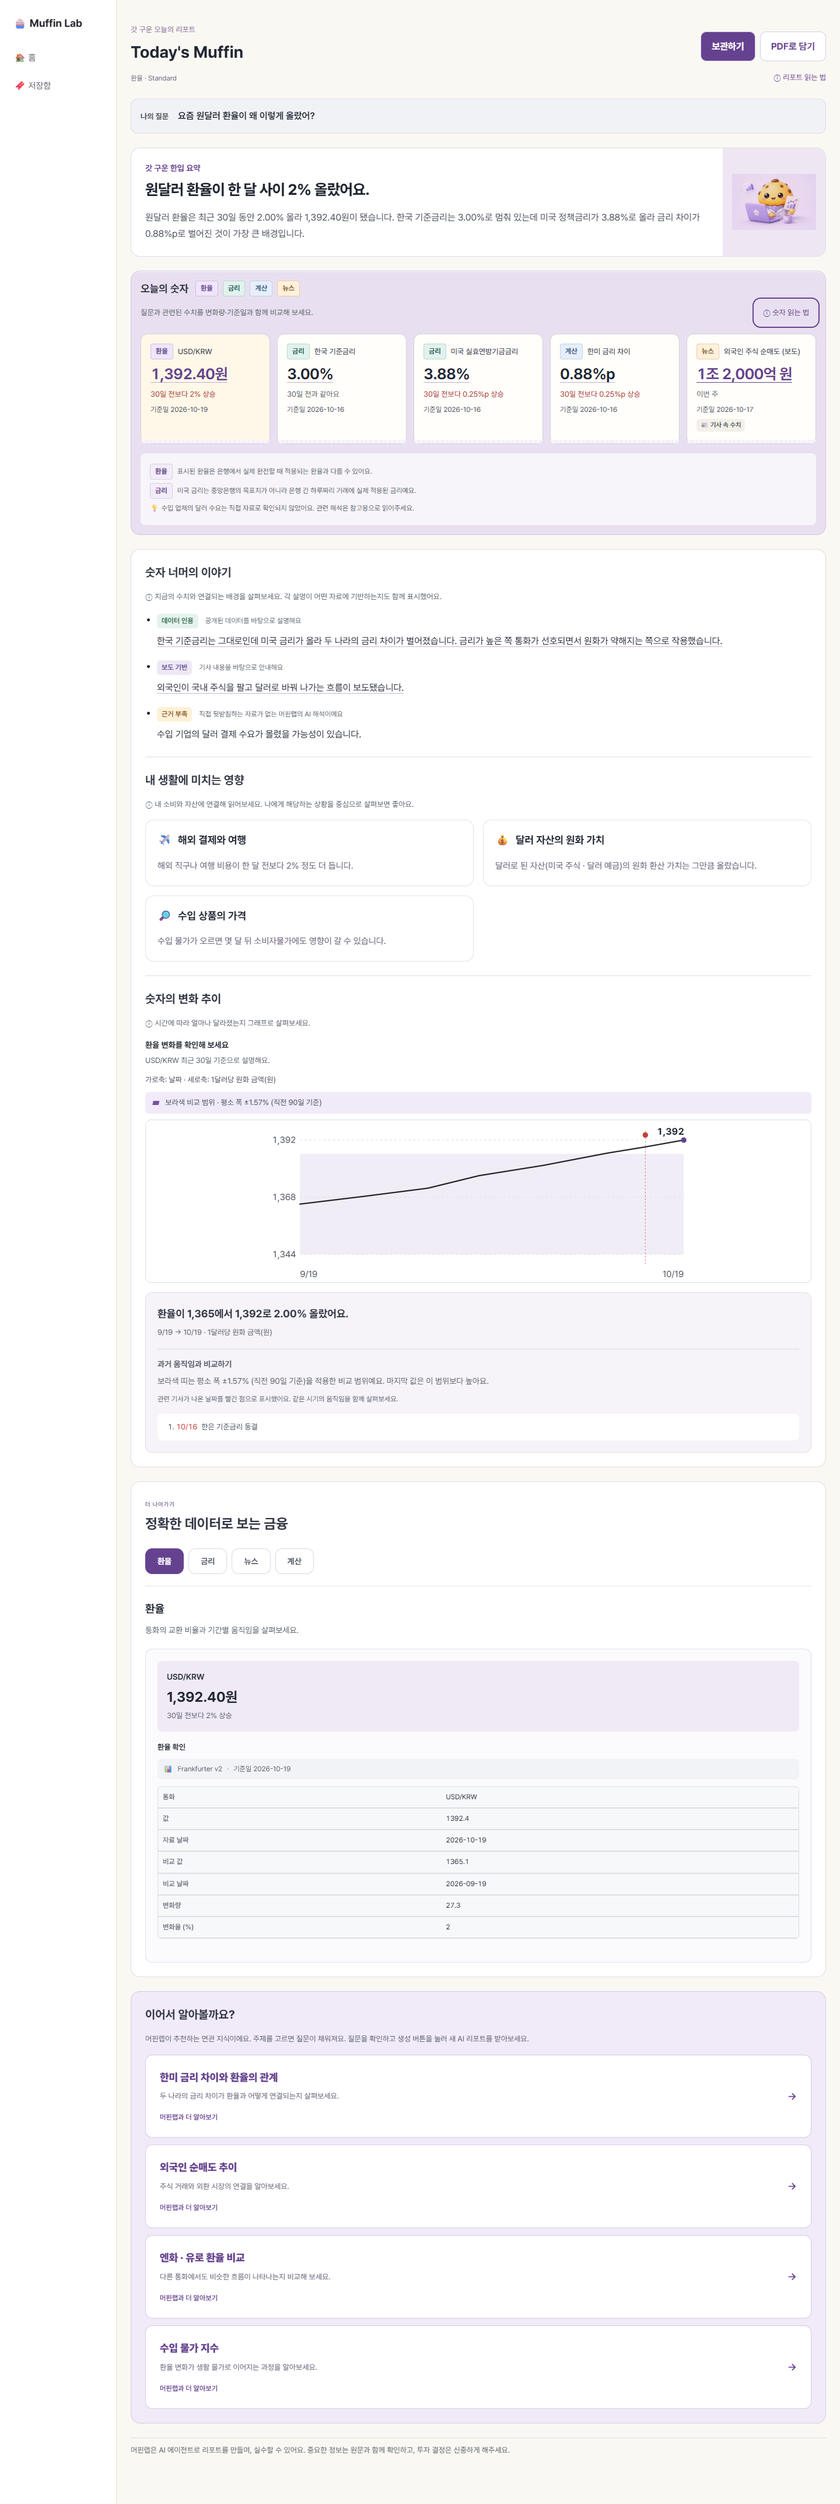
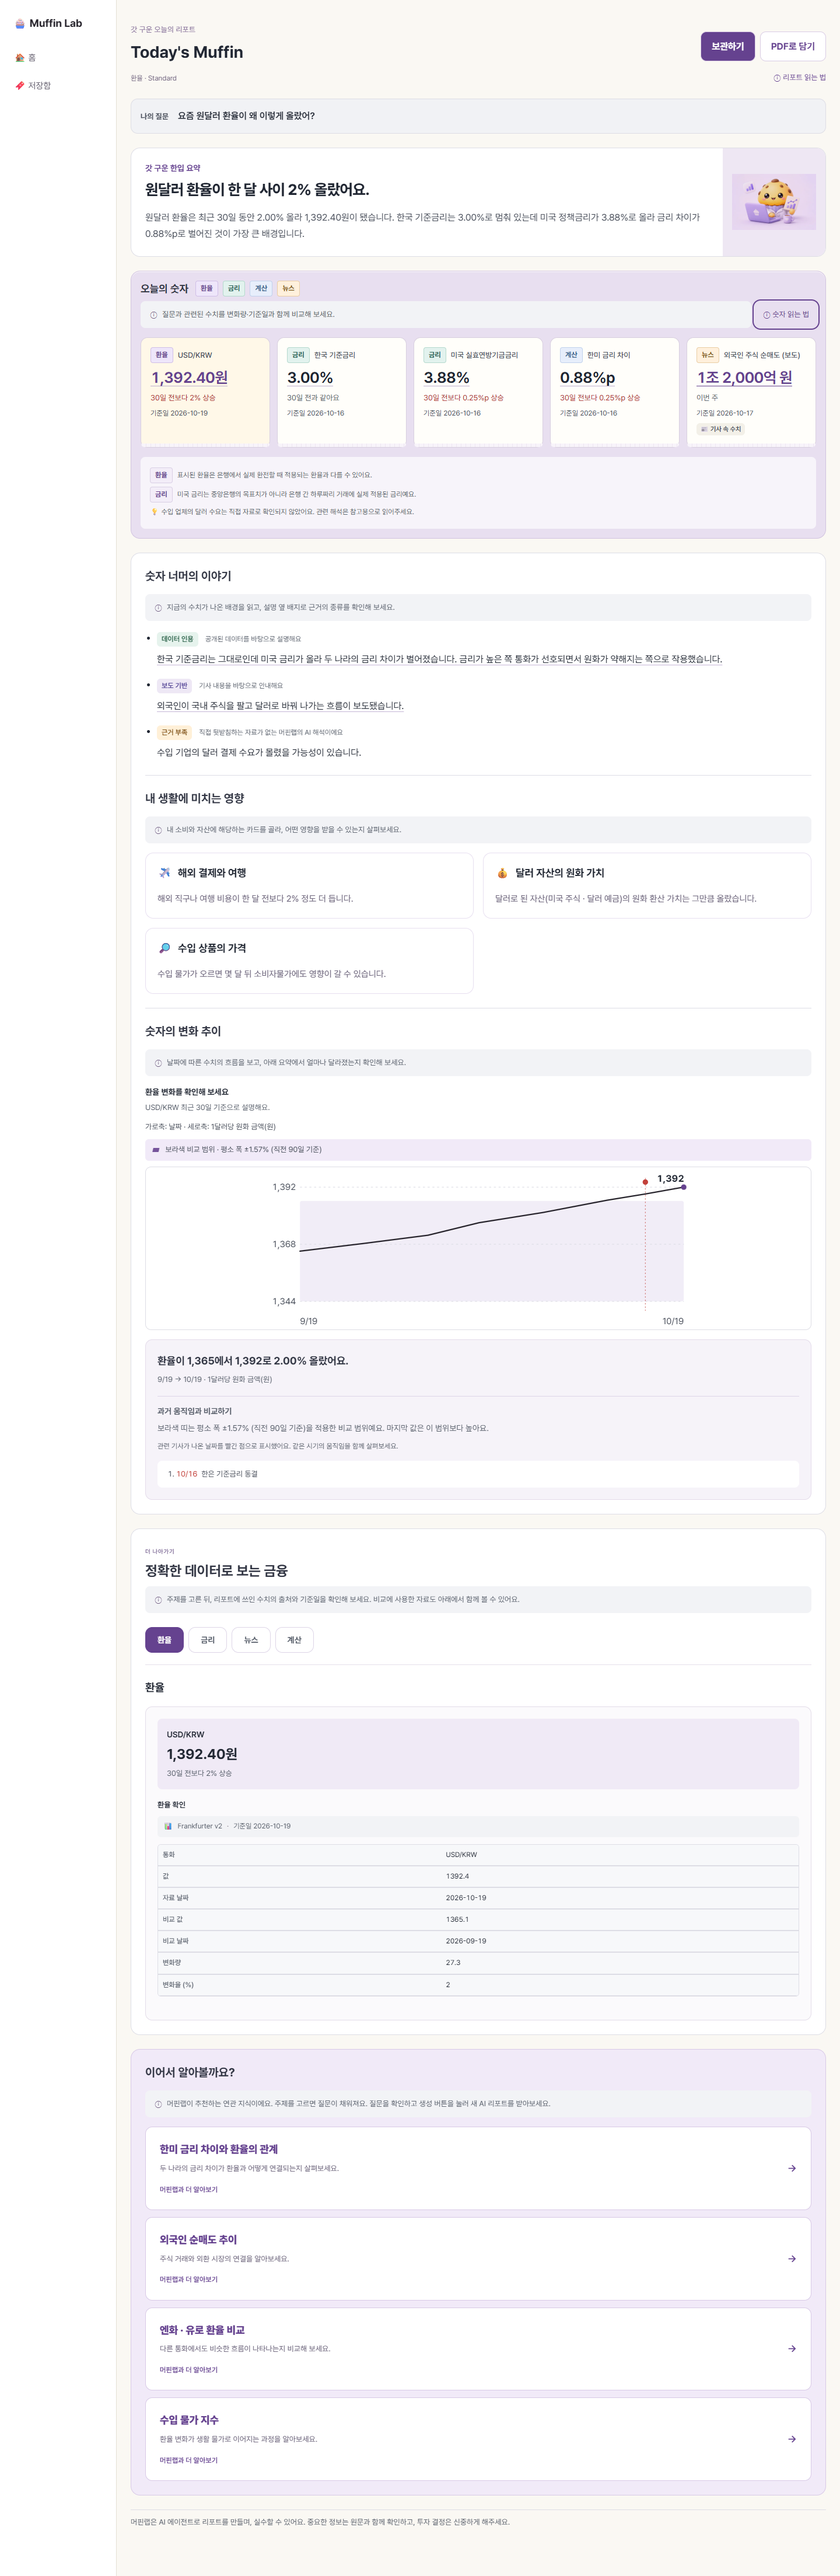
fix: 리포트 안내 박스와 중복 수치 표시 정리

diff --git a/app/components/ReportSources.tsx b/app/components/ReportSources.tsx
@@ -6,15 +6,6 @@ import type { Report } from "@/src/agent/schema";
 import { EvidenceRecord, SourceLink } from "./ReportEvidence";
 import { ReasonEvidenceTarget, useEvidenceSelection, useEvidenceTarget } from "./ReportEvidenceScope";
 
-const introductions: Record<string, string> = {
-  환율: "통화의 교환 비율과 기간별 움직임을 살펴보세요.",
-  금리: "국가별 금리 수준과 자료가 가리키는 날짜를 비교해 보세요.",
-  물가: "물가 지표의 변화와 집계 기간을 살펴보세요.",
-  ETF: "상품별 가격·지표와 자료 날짜를 살펴보세요.",
-  뉴스: "리포트에서 참고한 보도와 원문을 모았어요.",
-  계산: "어떤 값을 사용해 결과를 얻었는지 살펴보세요.",
-};
-
 export function ReportSources({ report }: { report: Report }) {
   const scope = useEvidenceSelection();
   const rootId = useEvidenceTarget("section-sources");
@@ -29,23 +20,24 @@ export function ReportSources({ report }: { report: Report }) {
   const active = scope?.selection && groups.includes(scope.selection) ? scope.selection : groups[0];
   return <section className="source-library" aria-label="정확한 데이터로 보는 금융" id={rootId ?? undefined} tabIndex={-1}>
     <div className="source-library-heading"><div><span className="source-eyebrow">더 나아가기</span><h2>정확한 데이터로 보는 금융</h2></div></div>
+    <p className="section-guide">주제를 고른 뒤, 리포트에 쓰인 수치의 출처와 기준일을 확인해 보세요. 비교에 사용한 자료도 아래에서 함께 볼 수 있어요.</p>
     <div className="source-chips" role="group" aria-label="자료 주제 선택">
       {groups.map(group => <button type="button" key={group} aria-pressed={active === group} onClick={() => scope?.select(group)}>{group}</button>)}
     </div>
     {groups.length === 0 && <p className="report-muted">연결된 자료가 없습니다.</p>}
     {groups.map(group => <div className="source-panel" key={group} data-source-group={group} hidden={active !== group}>
-      <div className="source-panel-heading"><h3>{group}</h3>{introductions[group] && <p>{introductions[group]}</p>}</div>
+      <div className="source-panel-heading"><h3>{group}</h3></div>
       {group === "계산" && report.notice && <p className="source-insight">{report.notice}</p>}
       {report.why.some(reason => reasonGroup(reason) === group) && <div className="source-reasons">
         {report.why.map((reason, index) => reasonGroup(reason) === group && <ReasonEvidenceTarget index={index} key={index}>
-          <h4>{reason.claim}</h4><p>{reason.evidence}</p>
+          <h4>{reason.claim}</h4>{reason.evidence && <p>{reason.evidence}</p>}
           
         </ReasonEvidenceTarget>)}
       </div>}
       {group === "참고 문서" ? <ul>{extraSources.map((source, index) => <li key={index}><SourceLink url={source.url} name={source.name} /> · 기준일 {source.asOf || "미제공"}</li>)}</ul> : <div className="source-data-grid">
         {report.evidence.filter(entry => evidenceCategory(entry) === group).map(entry => <div key={entry.id} className="source-data-item">
           {report.numbers.filter(number => number.ref === entry.id).map((number, index) => <div className="source-number" key={index}><span>{number.label}</span><strong>{number.value}</strong>{number.change && <small>{reportChange(number.change).text}</small>}</div>)}
-          <EvidenceRecord entry={entry} evidence={report.evidence} />
+          <EvidenceRecord entry={entry} evidence={report.evidence} displayedValue={report.numbers.find(number => number.ref === entry.id)?.value} />
         </div>)}
       </div>}
     </div>)}

diff --git a/app/components/ReportView.tsx b/app/components/ReportView.tsx
@@ -69,14 +69,14 @@ export function ReportView({ report, area, question, headline, impactTitles = []
             );
           })}
         </div>
-        <div className="metric-notes" aria-label="자료 범위">{report.caveats.map((note, i) => <p key={i}><span className="category-chip">{/환율/.test(note) ? "환율" : /금리/.test(note) ? "금리" : "참고"}</span>{note}</p>)}{report.dataGaps.map((note, i) => <p key={`gap-${i}`}>💡 {note} <span>관련 해석은 참고용으로 읽어주세요.</span></p>)}</div>
+        {(report.caveats.length > 0 || report.dataGaps.length > 0) && <div className="metric-notes" aria-label="자료 범위">{report.caveats.map((note, i) => <p key={i}><span className="category-chip">{/환율/.test(note) ? "환율" : /금리/.test(note) ? "금리" : "참고"}</span>{note}</p>)}{report.dataGaps.map((note, i) => <p key={`gap-${i}`}>💡 {note} <span>관련 해석은 참고용으로 읽어주세요.</span></p>)}</div>}
         {report.numbers.length === 0 && <p className="report-muted">표시할 숫자를 확보하지 못했습니다.</p>}
       </section>
 
       <div className={styles.columns}>
         <div className={styles.story}>
           <section>
-            <h2>숫자 너머의 이야기</h2><p className="section-guide">ⓘ 지금의 수치와 연결되는 배경을 살펴보세요. 각 설명이 어떤 자료에 기반하는지도 함께 표시했어요.</p>
+            <h2>숫자 너머의 이야기</h2><p className="section-guide">지금의 수치가 나온 배경을 읽고, 설명 옆 배지로 근거의 종류를 확인해 보세요.</p>
             {report.why.length === 0 ? (
               <p className="muted">이 질문의 원인을 설명할 데이터가 아직 없습니다.</p>
             ) : (
@@ -92,13 +92,13 @@ export function ReportView({ report, area, question, headline, impactTitles = []
           </section>
 
           <section>
-            <h2>내 생활에 미치는 영향</h2><p className="section-guide">ⓘ 내 소비와 자산에 연결해 읽어보세요. 나에게 해당하는 상황을 중심으로 살펴보면 좋아요.</p>
+            <h2>내 생활에 미치는 영향</h2><p className="section-guide">내 소비와 자산에 해당하는 카드를 골라, 어떤 영향을 받을 수 있는지 살펴보세요.</p>
             <div className="impact-grid">{report.impact.map((w, i) => <article className="impact-card" key={i}>{impactTitles[i] && <h3><span aria-hidden="true">{/여행|해외/.test(impactTitles[i]) ? "✈" : /자산|보유/.test(impactTitles[i]) ? "💰" : /상품|비교/.test(impactTitles[i]) ? "🔎" : /예금|적금/.test(impactTitles[i]) ? "🏦" : /물가|장보기/.test(impactTitles[i]) ? "🛒" : /뉴스/.test(impactTitles[i]) ? "📰" : "💡"}</span> {impactTitles[i]}</h3>}<p>{w}</p></article>)}</div>
           </section>
 
           {report.charts && report.charts.length > 0 && (
             <section>
-              <h2>숫자의 변화 추이</h2><p className="section-guide">ⓘ 시간에 따라 얼마나 달라졌는지 그래프로 살펴보세요.</p>
+              <h2>숫자의 변화 추이</h2><p className="section-guide">날짜에 따른 수치의 흐름을 보고, 아래 요약에서 얼마나 달라졌는지 확인해 보세요.</p>
               {report.charts.map((c, i) => (
                 <ReportChart key={i} chart={c} evidence={report.evidence} />
               ))}

diff --git a/app/components/ReportEvidence.tsx b/app/components/ReportEvidence.tsx
@@ -47,9 +47,9 @@ export function EvidenceReference({ evidenceId, evidence, label = "자료 출처
   );
 }
 
-export function EvidenceRecord({ entry, evidence }: { entry: Evidence; evidence: Evidence[] }) {
+export function EvidenceRecord({ entry, evidence, displayedValue }: { entry: Evidence; evidence: Evidence[]; displayedValue?: string }) {
   const id = useEvidenceTarget(entry.id);
-  return <div className="evidence-record" id={id ?? undefined} tabIndex={-1}><EvidenceContent entry={entry} evidence={evidence} /></div>;
+  return <div className="evidence-record" id={id ?? undefined} tabIndex={-1}><EvidenceContent entry={entry} evidence={evidence} displayedValue={displayedValue} /></div>;
 }
 
 /** 입력 자료는 이름으로 보여주며 내부 이동이나 재귀 펼침을 만들지 않습니다. */
@@ -65,7 +65,15 @@ const valueLabels: Record<string, string> = {
 };
 const operationLabels: Record<string, string> = { spread: "차이", diff: "차이", pct_change: "변화율", pp_diff: "%p 차이" };
 
-function EvidenceContent({ entry, evidence }: { entry: Evidence; evidence: Evidence[] }) {
+function EvidenceContent({ entry, evidence, displayedValue }: { entry: Evidence; evidence: Evidence[]; displayedValue?: string }) {
+  // A single raw value adds no context when its formatted equivalent is already above.
+  // Keep differing values, calculations and multi-field records visible.
+  const fields = Object.entries(entry.values);
+  const formatted = displayedValue?.replaceAll(",", "");
+  const duplicate = !entry.lineage && fields.length === 1 && ["value", "rate"].includes(fields[0][0])
+    && typeof fields[0][1] === "number" && formatted !== undefined
+    && /^[+-]?\d+(?:\.\d+)?(?:%p|%|원)?$/.test(formatted)
+    && Number.parseFloat(formatted) === fields[0][1];
   const isNews = /news/i.test(entry.tool);
   return (
     <div className="evidence-content">
@@ -81,7 +89,7 @@ function EvidenceContent({ entry, evidence }: { entry: Evidence; evidence: Evide
           </span>
         )) : "입력 자료 미제공"}</span> : null}
       </div>
-      {Object.keys(entry.values).length > 0 ? (
+      {duplicate ? null : Object.keys(entry.values).length > 0 ? (
         <dl className="evidence-values">
           {Object.entries(entry.values).map(([key, value]) => (
             <div key={key}><dt title={key}>{valueLabels[key] ?? key}</dt><dd>{key === "op" ? operationLabels[String(value)] ?? String(value) : String(value)}</dd></div>

diff --git a/app/preview/report/PreviewReport.tsx b/app/preview/report/PreviewReport.tsx
@@ -29,7 +29,7 @@ export function PreviewReport() {
     report.numbers = [{ ...report.numbers[0], label: item.label, value: item.value, change: item.change, check: area === "news" ? "reported" : "verified", ref: "E1" }];
     report.evidence = [{ ...report.evidence[0], id: "E1", tool: item.tool, label: item.label, source: { name: item.source, url: "", asOf: "2026-10-19" }, values: { value: item.amount } }];
     report.sources = [];
-    report.why = [{ claim: item.summary, evidence: "기준일과 지표의 비교 기간을 함께 살펴보세요.", basis: area === "news" ? "news" : "data", refs: ["E1"] }];
+    report.why = [{ claim: item.summary, evidence: "", basis: area === "news" ? "news" : "data", refs: ["E1"] }];
     report.impact = item.impacts;
     report.nextTopics = item.topics;
     report.caveats = [];

diff --git a/app/components/ReportView.module.css b/app/components/ReportView.module.css
@@ -311,3 +311,9 @@
 .topicGrid { grid-template-columns:minmax(0,1fr); gap:12px; }
 .report .topicLink { min-height:112px; }
 .report :global(.chart) figcaption { display:block; margin-bottom:12px; }
+
+/* Section instructions share one consistent, quiet container. */
+.report :global(.section-guide) { padding:12px 16px; border-radius:8px; background:#f2f3f6; color:#545b67; font-size:13px; font-weight:400; line-height:1.7; }
+.report :global(.section-guide)::before { content:"ⓘ"; margin-right:8px; color:#756286; }
+.report :global(.metrics-guide .section-guide) { flex:1; }
+.report :global(.source-panel-heading) { margin-bottom:16px; }

diff --git a/docs/report-reading-handoff.md b/docs/report-reading-handoff.md
@@ -69,3 +69,11 @@
 - 5개 주제 × 1440/390/320px: 가로 넘침, 모달 열기/닫기, 보관, 인쇄 호출 확인.
 - 자료 링크 안전성, 범위별 ID 분리, 없는 근거의 링크 제거, 비교 기간/부호 해석 테스트.
 - PR 본문에는 보존한 before.png와 최종 after.png 두 장만 첨부합니다. mobile.png는 저장소 내 보조 검증 캡처입니다.
+
+
+## 최종 가독성 보완
+
+- 모든 섹션의 읽는 방법을 같은 회색 안내 박스와 문체로 통일했습니다. 자료 영역 헤더에도 출처·기준일을 확인하는 목적을 설명합니다.
+- caveats/dataGaps가 모두 비었으면 숫자 아래 안내 박스를 렌더링하지 않습니다.
+- 위 수치 카드와 같은 단일 원본 값(`value`/`rate`)만 반복 표에서 제외합니다. 출처·기준일은 유지하며, 다른 값·여러 필드·계산 내역은 숨기지 않습니다.
+- 자료 주제마다 반복하던 일반 안내와 개발 시안의 비교 기간 안내를 제거해, 해설과 실제 데이터가 바로 이어지게 했습니다.
